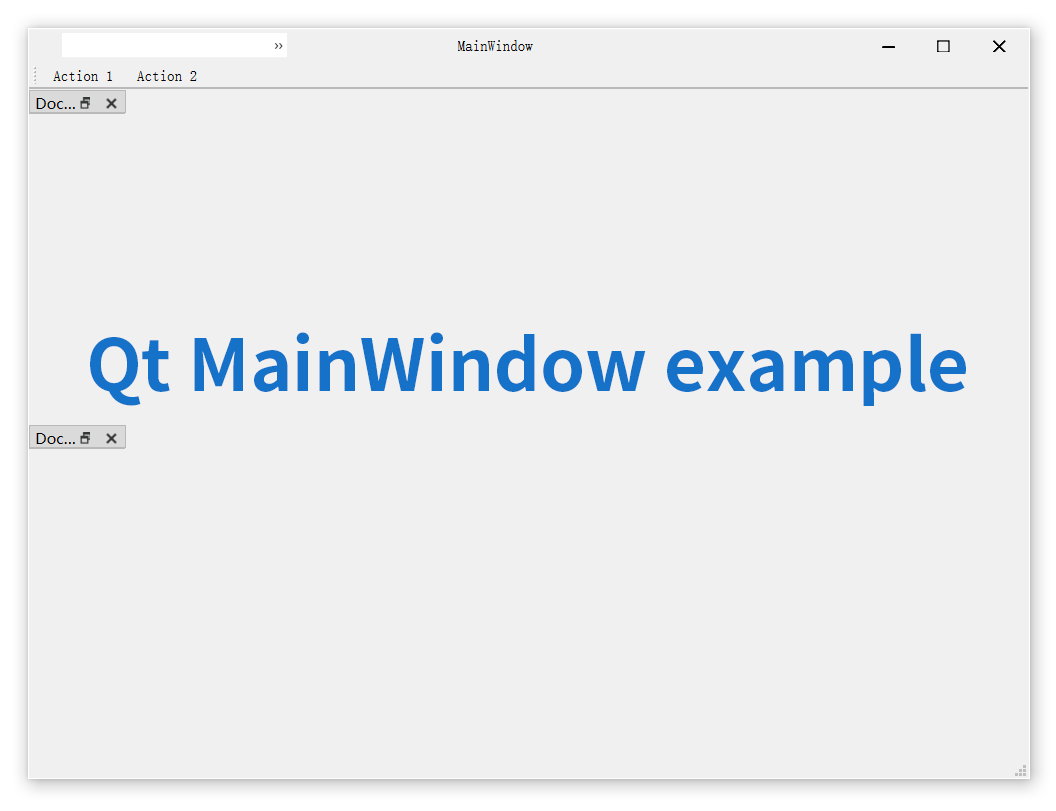
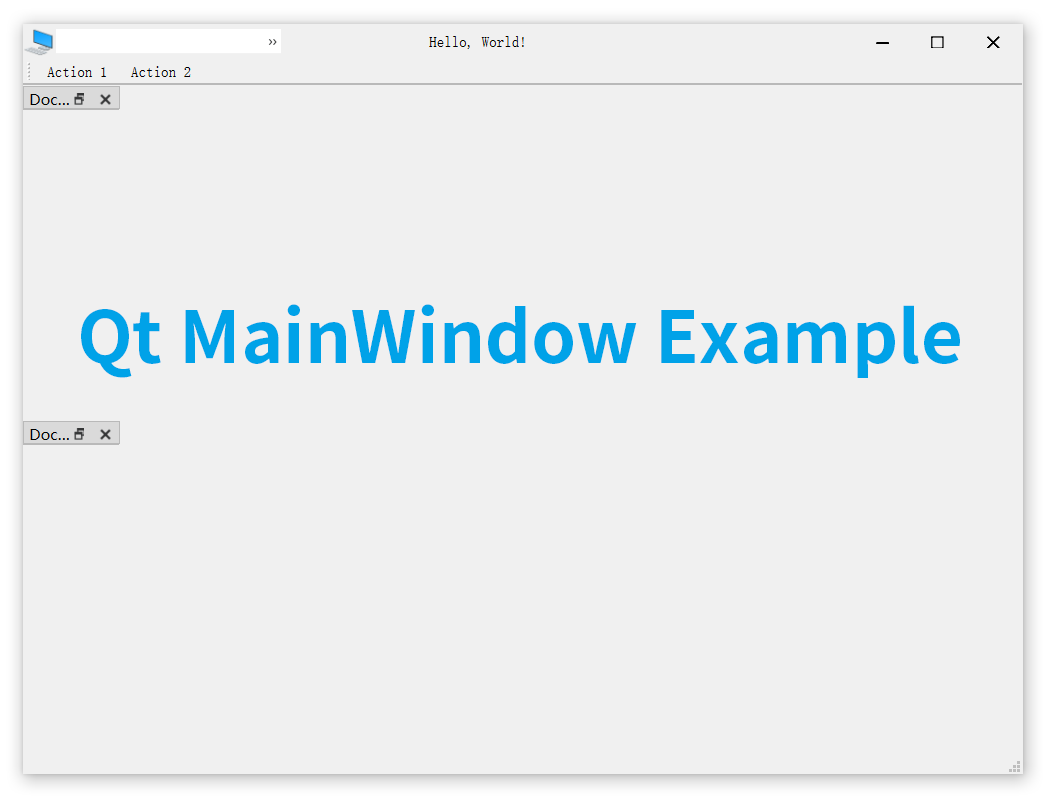
Update.

diff --git a/examples/QMainWindow/main.cpp b/examples/QMainWindow/main.cpp
@@ -25,6 +25,7 @@
 #include "ui_MainWindow.h"
 #include "ui_TitleBar.h"
 #include <QApplication>
+#include <QStyleOption>
 #include <QWidget>
 #ifdef Q_OS_WINDOWS
 #include "../../winnativeeventfilter.h"
@@ -35,10 +36,22 @@
 int main(int argc, char *argv[])
 {
     QCoreApplication::setAttribute(Qt::AA_DontCreateNativeWidgetSiblings);
+    // High DPI scaling is enabled by default from Qt 6
 #if (QT_VERSION < QT_VERSION_CHECK(6, 0, 0))
+    // Windows: we are using the manifest file to get maximum compatibility
+    // because some APIs are not supprted on old systems such as Windows 7
+    // and Windows 8. And once we have set the DPI awareness level in the
+    // manifest file, any attemptation to try to change it through API will
+    // fail. In other words, Qt won't be able to enable or disable high DPI
+    // scaling or change the DPI awareness level once we have set it in the
+    // manifest file. So the following two lines are uesless actually (However,
+    // they are still useful on other platforms).
     QGuiApplication::setAttribute(Qt::AA_EnableHighDpiScaling);
     QGuiApplication::setAttribute(Qt::AA_UseHighDpiPixmaps);
 #if (QT_VERSION >= QT_VERSION_CHECK(5, 14, 0))
+    // Don't round the scale factor.
+    // This will break QWidget applications because they can't render correctly.
+    // Qt Quick applications won't have this issue.
     QGuiApplication::setHighDpiScaleFactorRoundingPolicy(
         Qt::HighDpiScaleFactorRoundingPolicy::PassThrough);
 #endif
@@ -61,9 +74,6 @@ int main(int argc, char *argv[])
     QMenuBar *menuBar = mainWindow->menuBar();
     titleBarWidget.horizontalLayout->insertWidget(1, menuBar);
     menuBar->setMaximumHeight(20);
-
-    titleBarWidget.iconButton->setIcon(mainWindow->windowIcon());
-    titleBarWidget.titleLabel->setText(mainWindow->windowTitle());
 
     mainWindow->setMenuWidget(widget);
 
@@ -94,6 +104,12 @@ int main(int argc, char *argv[])
                              titleBarWidget.maximizeButton->setToolTip(QObject::tr("Restore"));
                          }
                      });
+
+    QStyleOption option;
+    option.initFrom(mainWindow);
+    const QIcon icon = mainWindow->style()->standardIcon(QStyle::SP_ComputerIcon, &option);
+    mainWindow->setWindowIcon(icon);
+    mainWindow->setWindowTitle(QObject::tr("Hello, World!"));
 
 #ifdef Q_OS_WINDOWS
     WinNativeEventFilter::addFramelessWindow(mainWindow);

diff --git a/winnativeeventfilter.cpp b/winnativeeventfilter.cpp
@@ -184,7 +184,7 @@ bool isWin10OrGreater(const int ver)
 
 bool shouldHaveWindowFrame()
 {
-#if 1
+#if 0
 #if (QT_VERSION >= QT_VERSION_CHECK(5, 9, 0))
     return QOperatingSystemVersion::current() >= QOperatingSystemVersion::Windows10;
 #else
